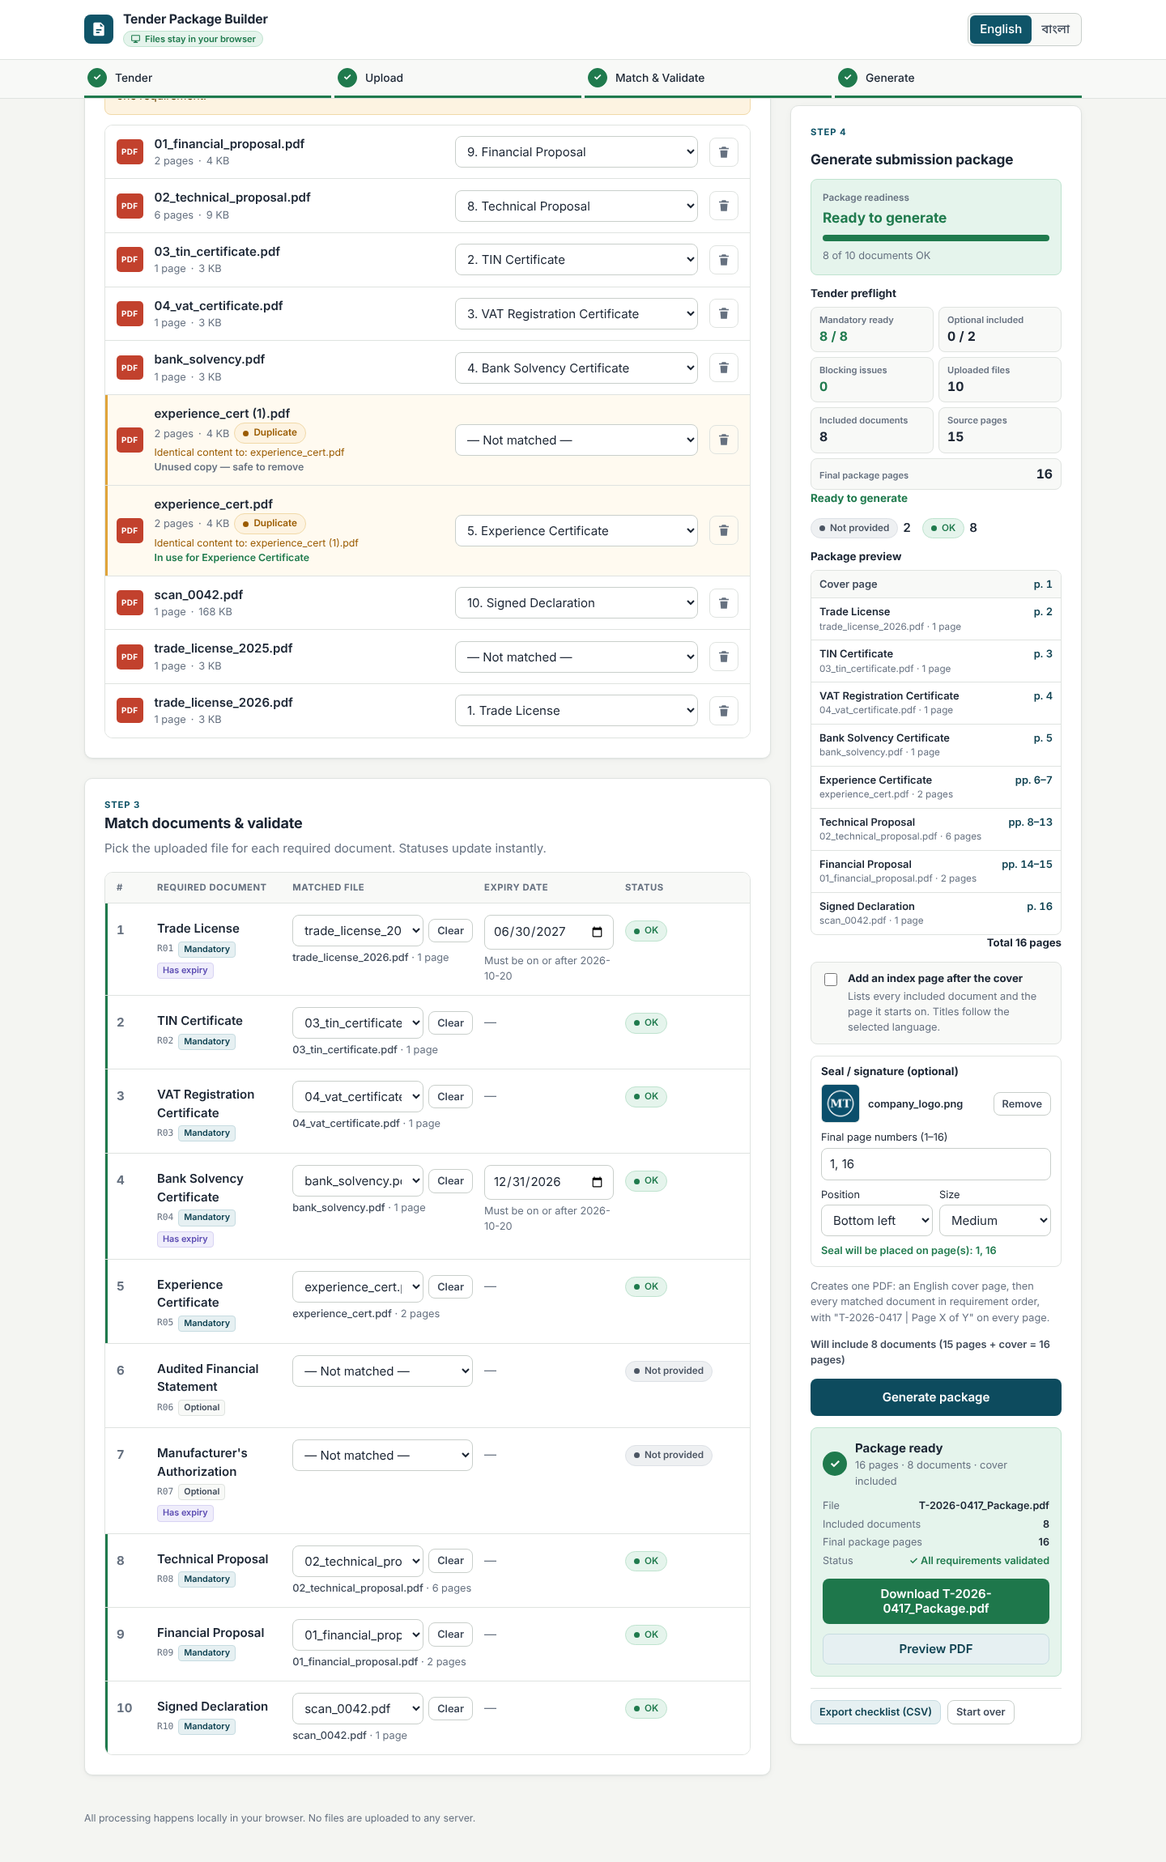
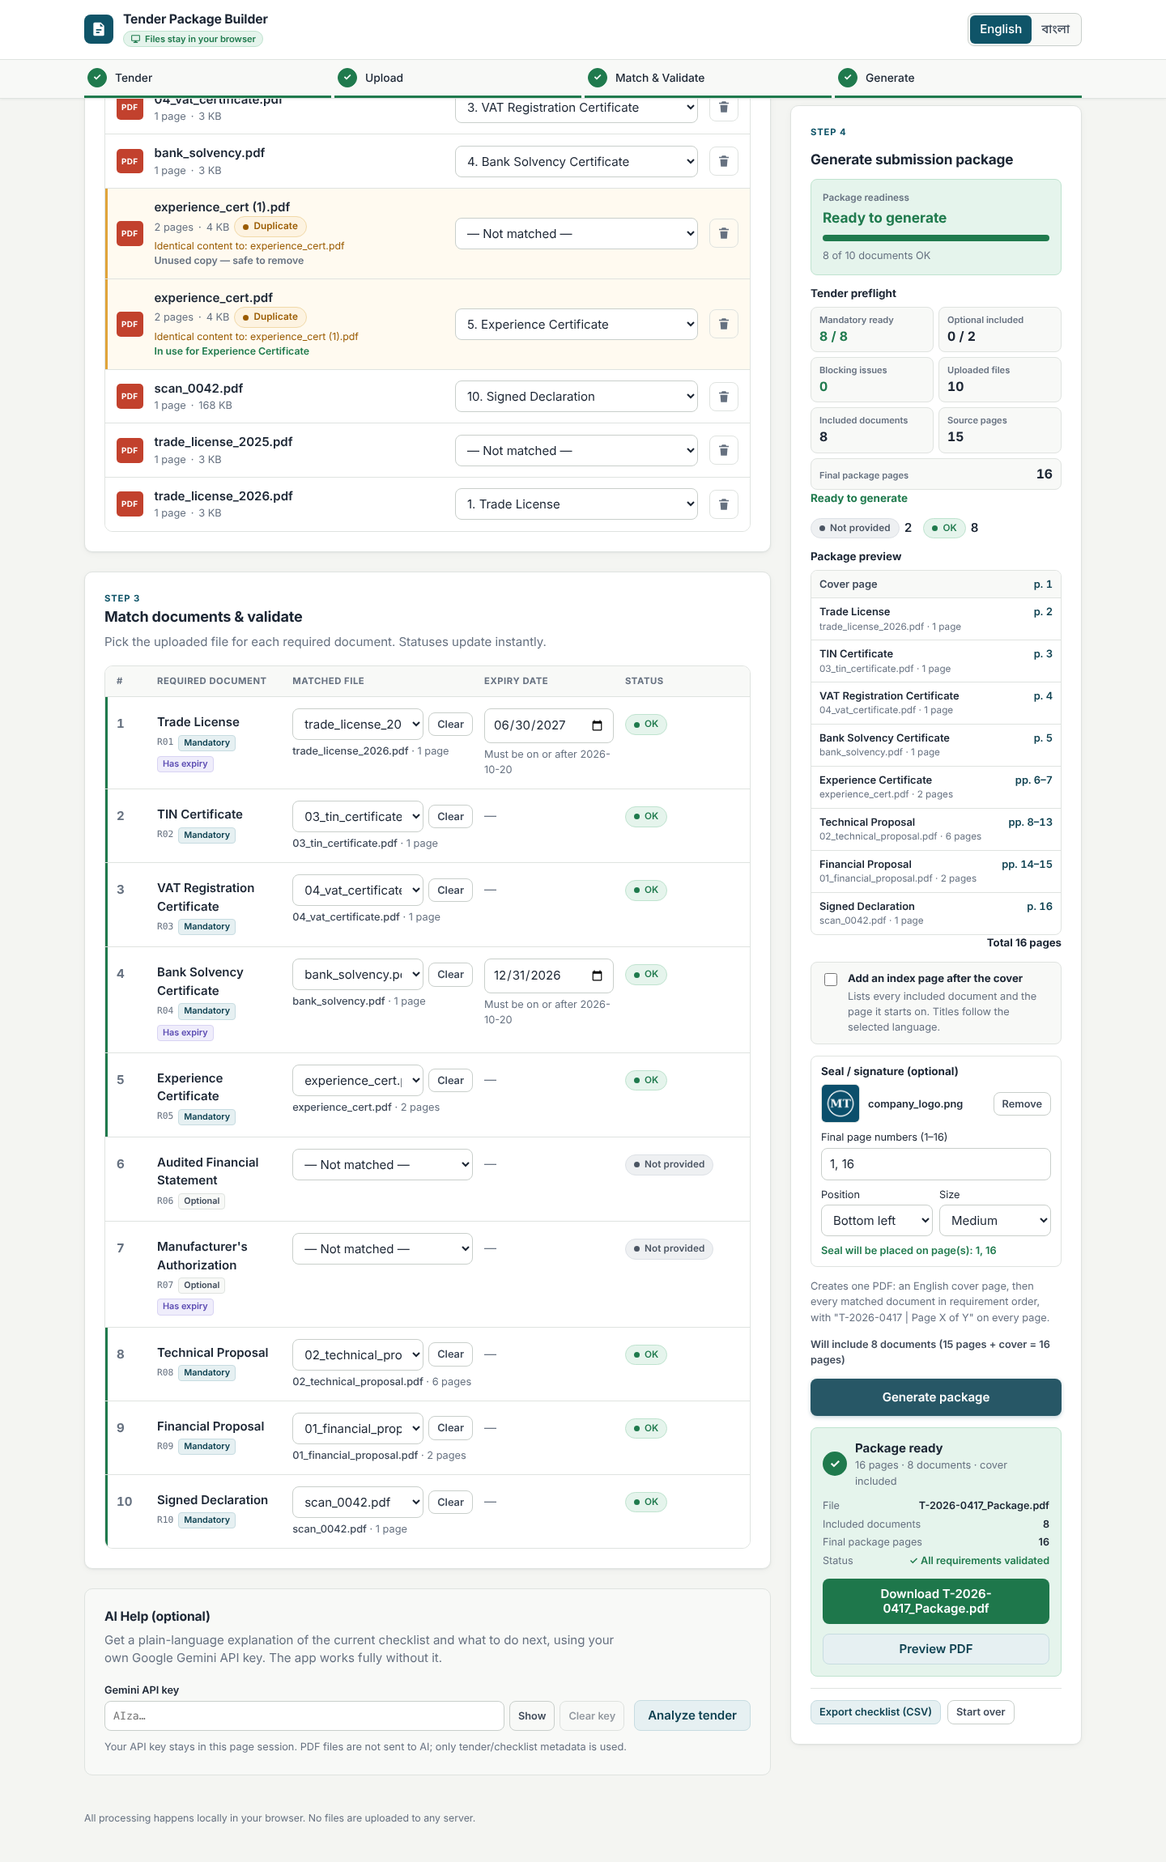
Finalize AI help and PDF safety
- Add optional Gemini AI Help panel in src/lib/ai.js, using a user key kept in memory only
- Send only tender/checklist metadata; PDFs are never sent and results never change validation
- Bilingual AI strings, privacy note and graceful error handling
- Light UI polish: header shadow, boxed blockers, clearer primary action
- Mocked Gemini unit tests; exclude the full-bleed fixture from the browser upload test
- README notes for AI Help and the sample logo

AI Prompt: Fix full-bleed PDF footer safety without covering original content, add an isolated optional Gemini AI Help panel using only a user-supplied in-memory API key and tender metadata, preserve all deterministic validation and package behavior, and apply minimal final judge-ready branding and UI polish.

diff --git a/src/lib/ai.js b/src/lib/ai.js
@@ -1,0 +1,131 @@
+// Optional AI Help: explains the current tender checklist with Google Gemini, using the user's own key.
+// Only checklist metadata is sent (never PDF bytes or PDF text). The key is passed in per call and
+// only ever placed in the request header; it is never stored, logged or included in errors.
+
+const ENDPOINT = 'https://generativelanguage.googleapis.com/v1beta/models'
+// The alias tracks Google's current Flash model; the pinned model is a fallback if the alias is unavailable.
+const MODELS = ['gemini-flash-latest', 'gemini-2.5-flash']
+const TIMEOUT_MS = 30000
+
+export class AiError extends Error {
+  constructor(key) {
+    super(key)
+    this.key = key
+  }
+}
+
+// Builds the metadata summary sent to the model from the app's deterministic state.
+export function buildTenderSummary({ tender, rows, files, fileById, dupGroups, ready, lang }) {
+  const title = (req) => (lang === 'bn' ? req.title_bn : req.title_en)
+  return {
+    tender: {
+      tender_id: tender.tender_id,
+      title: tender.title,
+      procuring_entity: tender.procuring_entity,
+      bidder: tender.bidder,
+      submission_deadline: tender.submission_deadline,
+    },
+    readiness: {
+      ready_to_generate: ready,
+      blocking_issues: rows.filter((r) => r.blocking).length,
+      generate_button_enabled: ready,
+    },
+    requirements: rows.map((r) => {
+      const file = r.fileId ? fileById[r.fileId] : null
+      return {
+        order: r.req.order,
+        id: r.req.id,
+        title: title(r.req),
+        title_en: r.req.title_en,
+        mandatory: r.req.mandatory,
+        needs_expiry_date: r.req.has_expiry,
+        status: r.status,
+        blocking: r.blocking,
+        matched_file: file ? file.name : null,
+        pages: file ? file.pages : null,
+        expiry_date: r.req.has_expiry && file ? r.expiry || null : null,
+      }
+    }),
+    uploaded_files: files.map((f) => ({
+      name: f.name,
+      pages: f.pages,
+      duplicate_of: dupGroups[f.hash].length > 1 ? dupGroups[f.hash].filter((g) => g.id !== f.id).map((g) => g.name) : [],
+      matched: rows.some((r) => r.fileId === f.id),
+    })),
+  }
+}
+
+export function buildPrompt(summary, lang) {
+  const language = lang === 'bn' ? 'Bangla (বাংলা)' : 'English'
+  return [
+    'You help an office worker prepare a tender submission package.',
+    'Below is the current checklist produced by the application. Its statuses are authoritative:',
+    'MISSING (mandatory, no file, blocking), EXPIRY_NEEDED (expiry date not entered, blocking),',
+    'EXPIRED (expiry date before the submission deadline, blocking), NOT_PROVIDED (optional, not blocking), OK.',
+    'An expiry date on or after the deadline is valid. Duplicate files have identical content and only one copy may be used.',
+    'Rules: only explain the supplied data; do not invent documents, dates or requirements; do not change or',
+    'second-guess the validation rules or statuses; do not ask for passwords, keys or other sensitive information.',
+    `Answer in ${language}, concisely, in plain text (no tables), using these short sections:`,
+    '1. Overall readiness  2. Blocking issues  3. Recommended next actions  4. Optional observations.',
+    '',
+    'Checklist data (JSON):',
+    JSON.stringify(summary, null, 2),
+  ].join('\n')
+}
+
+function errorFor(status, body) {
+  const reason = JSON.stringify(body || {})
+  if (status === 400 && /API_KEY_INVALID|API key not valid/i.test(reason)) return 'errAiKey'
+  if (status === 401 || status === 403) return 'errAiKey'
+  if (status === 429) return 'errAiQuota'
+  if (status === 404) return 'errAiUnavailable'
+  if (status >= 500) return 'errAiUnavailable'
+  return 'errAiRequest'
+}
+
+async function callModel(model, apiKey, prompt, signal, fetchImpl) {
+  let res
+  try {
+    res = await fetchImpl(`${ENDPOINT}/${model}:generateContent`, {
+      method: 'POST',
+      headers: { 'Content-Type': 'application/json', 'x-goog-api-key': apiKey },
+      body: JSON.stringify({ contents: [{ role: 'user', parts: [{ text: prompt }] }], generationConfig: { temperature: 0.2 } }),
+      signal,
+    })
+  } catch (err) {
+    throw new AiError(err?.name === 'AbortError' ? 'errAiTimeout' : 'errAiNetwork')
+  }
+  let body = null
+  try {
+    body = await res.json()
+  } catch {
+    if (res.ok) throw new AiError('errAiBadResponse')
+  }
+  if (!res.ok) throw new AiError(errorFor(res.status, body))
+  const parts = body?.candidates?.[0]?.content?.parts
+  const text = Array.isArray(parts) ? parts.map((p) => (typeof p?.text === 'string' ? p.text : '')).join('').trim() : ''
+  if (!text) throw new AiError('errAiBadResponse')
+  return text
+}
+
+// Returns the model's explanation as plain text, or throws AiError with a translation key.
+export async function analyzeTender({ apiKey, summary, lang, fetchImpl = globalThis.fetch, timeoutMs = TIMEOUT_MS }) {
+  const key = String(apiKey || '').trim()
+  if (!key) throw new AiError('errAiNoKey')
+  const controller = new AbortController()
+  const timer = setTimeout(() => controller.abort(), timeoutMs)
+  try {
+    const prompt = buildPrompt(summary, lang)
+    for (const [i, model] of MODELS.entries()) {
+      try {
+        return await callModel(model, key, prompt, controller.signal, fetchImpl)
+      } catch (err) {
+        // Only fall back to the next model when this one is not available.
+        if (!(err instanceof AiError) || err.key !== 'errAiUnavailable' || i === MODELS.length - 1) throw err
+      }
+    }
+    throw new AiError('errAiUnavailable')
+  } finally {
+    clearTimeout(timer)
+  }
+}

diff --git a/src/lib/i18n.js b/src/lib/i18n.js
@@ -175,6 +175,28 @@ const en = {
   sealWill: 'Seal will be placed on page(s): {list}',
   errSealPng: 'Only PNG images can be used as a seal or signature.',
   errSealPages: 'Enter page numbers between 1 and {max}, e.g. 1, 3-5.',
+  aiTitle: 'AI Help (optional)',
+  aiIntro: 'Get a plain-language explanation of the current checklist and what to do next, using your own Google Gemini API key. The app works fully without it.',
+  aiKeyLabel: 'Gemini API key',
+  aiShow: 'Show',
+  aiHide: 'Hide',
+  aiClearKey: 'Clear key',
+  aiAnalyze: 'Analyze tender',
+  aiLoading: 'Analyzing…',
+  aiClearResult: 'Clear result',
+  aiResultTitle: 'AI explanation',
+  aiNeedTender: 'Load the tender requirements first.',
+  aiPrivacy: 'Your API key stays in this page session. PDF files are not sent to AI; only tender/checklist metadata is used.',
+  aiDisclaimer: 'AI suggestions do not change validation results.',
+  aiFailNote: 'Everything else in the app keeps working.',
+  errAiNoKey: 'Enter your Gemini API key first.',
+  errAiKey: 'The API key was rejected. Check that it is a valid Gemini API key.',
+  errAiQuota: 'Gemini quota or rate limit reached. Try again later.',
+  errAiNetwork: 'Could not reach Gemini. Check your connection and try again.',
+  errAiTimeout: 'Gemini did not respond in time. Try again.',
+  errAiUnavailable: 'Gemini is unavailable right now. Try again later.',
+  errAiRequest: 'Gemini could not process the request.',
+  errAiBadResponse: 'Gemini returned an unexpected response.',
   footerNote: 'All processing happens locally in your browser. No files are uploaded to any server.',
 }
 
@@ -349,6 +371,28 @@ const bn = {
   sealWill: 'সিল বসবে পৃষ্ঠা: {list}',
   errSealPng: 'সিল বা স্বাক্ষর হিসেবে শুধু PNG ছবি ব্যবহার করা যাবে।',
   errSealPages: '১ থেকে {max}-এর মধ্যে পৃষ্ঠা নম্বর দিন, যেমন 1, 3-5।',
+  aiTitle: 'AI সহায়তা (ঐচ্ছিক)',
+  aiIntro: 'আপনার নিজের Google Gemini API key দিয়ে বর্তমান চেকলিস্টের সহজ ব্যাখ্যা ও পরবর্তী করণীয় জানুন। এটি ছাড়াও অ্যাপ পুরোপুরি কাজ করে।',
+  aiKeyLabel: 'Gemini API key',
+  aiShow: 'দেখান',
+  aiHide: 'লুকান',
+  aiClearKey: 'Key মুছুন',
+  aiAnalyze: 'টেন্ডার বিশ্লেষণ করুন',
+  aiLoading: 'বিশ্লেষণ হচ্ছে…',
+  aiClearResult: 'ফলাফল মুছুন',
+  aiResultTitle: 'AI ব্যাখ্যা',
+  aiNeedTender: 'আগে টেন্ডারের প্রয়োজনীয়তা লোড করুন।',
+  aiPrivacy: 'আপনার API key শুধু এই পেজ সেশনেই থাকে। PDF ফাইল AI-তে পাঠানো হয় না; শুধু tender/checklist-এর তথ্য ব্যবহার করা হয়।',
+  aiDisclaimer: 'AI পরামর্শ যাচাইকরণের ফল পরিবর্তন করে না।',
+  aiFailNote: 'অ্যাপের বাকি সব কিছু স্বাভাবিকভাবে কাজ করবে।',
+  errAiNoKey: 'আগে আপনার Gemini API key দিন।',
+  errAiKey: 'API key গ্রহণ করা হয়নি। এটি সঠিক Gemini API key কিনা যাচাই করুন।',
+  errAiQuota: 'Gemini-এর কোটা বা সীমা পূর্ণ হয়েছে। পরে আবার চেষ্টা করুন।',
+  errAiNetwork: 'Gemini-এর সাথে সংযোগ করা যায়নি। ইন্টারনেট সংযোগ দেখে আবার চেষ্টা করুন।',
+  errAiTimeout: 'Gemini সময়মতো সাড়া দেয়নি। আবার চেষ্টা করুন।',
+  errAiUnavailable: 'Gemini এখন পাওয়া যাচ্ছে না। পরে আবার চেষ্টা করুন।',
+  errAiRequest: 'Gemini অনুরোধটি প্রক্রিয়া করতে পারেনি।',
+  errAiBadResponse: 'Gemini অপ্রত্যাশিত উত্তর দিয়েছে।',
   footerNote: 'সব প্রক্রিয়া আপনার ব্রাউজারেই হয়। কোনো ফাইল কোনো সার্ভারে পাঠানো হয় না।',
 }
 

diff --git a/src/App.jsx b/src/App.jsx
@@ -6,6 +6,7 @@ import { inspectPdf, looksLikePdf, buildPackage, packageFileName, planPackage, p
 import { suggestMatches } from './lib/suggest.js'
 import { checklistCsv } from './lib/csv.js'
 import { saveProject, loadProject, clearProject, peekProject } from './lib/store.js'
+import { analyzeTender, buildTenderSummary } from './lib/ai.js'
 import './App.css'
 
 let nextId = 1
@@ -92,6 +93,12 @@ export default function App() {
   const [sealPos, setSealPos] = useState('bottom-right')
   const [sealSize, setSealSize] = useState('m')
   const [sealError, setSealError] = useState('')
+  // AI Help: the key lives only in this component's memory and is never persisted.
+  const [aiKey, setAiKey] = useState('')
+  const [aiShowKey, setAiShowKey] = useState(false)
+  const [aiLoading, setAiLoading] = useState(false)
+  const [aiResult, setAiResult] = useState('')
+  const [aiError, setAiError] = useState('')
 
   useEffect(() => {
     peekProject().then(setSaved)
@@ -316,6 +323,21 @@ export default function App() {
     }
     setSealError('')
     setSeal({ name: file.name, bytes, url: URL.createObjectURL(new Blob([bytes], { type: 'image/png' })) })
+  }
+
+  async function runAiHelp() {
+    if (aiLoading || !evaluation) return
+    setAiLoading(true)
+    setAiError('')
+    try {
+      const summary = buildTenderSummary({ tender: data.tender, rows: evaluation.rows, files, fileById, dupGroups, ready: evaluation.ready, lang })
+      setAiResult(await analyzeTender({ apiKey: aiKey, summary, lang }))
+    } catch (err) {
+      setAiResult('')
+      setAiError(err?.key || 'errAiRequest')
+    } finally {
+      setAiLoading(false)
+    }
   }
 
   async function saveWork() {
@@ -726,6 +748,56 @@ export default function App() {
                     </div>
                   )
                 })}
+              </div>
+            )}
+          </section>
+
+          <section className="card card-ai" aria-labelledby="h-ai">
+            <div className="card-head">
+              <h2 id="h-ai">{t('aiTitle')}</h2>
+              <p className="muted">{t('aiIntro')}</p>
+            </div>
+            <div className="ai-form">
+              <label className="ai-key">
+                <span className="small strong">{t('aiKeyLabel')}</span>
+                <span className="ai-key-row">
+                  <input
+                    type={aiShowKey ? 'text' : 'password'}
+                    value={aiKey}
+                    onChange={(e) => setAiKey(e.target.value)}
+                    autoComplete="off"
+                    spellCheck={false}
+                    data-lpignore="true"
+                    placeholder="AIza…"
+                  />
+                  <button type="button" className="btn btn-ghost btn-sm" onClick={() => setAiShowKey((v) => !v)} aria-pressed={aiShowKey}>
+                    {aiShowKey ? t('aiHide') : t('aiShow')}
+                  </button>
+                  <button type="button" className="btn btn-ghost btn-sm" onClick={() => { setAiKey(''); setAiShowKey(false) }} disabled={!aiKey}>
+                    {t('aiClearKey')}
+                  </button>
+                </span>
+              </label>
+              <button type="button" className="btn btn-secondary" onClick={runAiHelp} disabled={aiLoading || !data}>
+                {aiLoading ? t('aiLoading') : t('aiAnalyze')}
+              </button>
+            </div>
+            <p className="muted small ai-note">{t('aiPrivacy')}</p>
+            {!data && <p className="muted small">{t('aiNeedTender')}</p>}
+            {aiError && (
+              <div className="alert alert-error small" role="alert">
+                {t(aiError)} {t('aiFailNote')}
+              </div>
+            )}
+            {aiLoading && <p className="muted small" role="status">{t('aiLoading')}</p>}
+            {aiResult && (
+              <div className="ai-result" role="region" aria-label={t('aiResultTitle')}>
+                <div className="ai-result-head">
+                  <strong>{t('aiResultTitle')}</strong>
+                  <button type="button" className="btn btn-ghost btn-sm" onClick={() => setAiResult('')}>{t('aiClearResult')}</button>
+                </div>
+                <div className="ai-text">{aiResult.replace(/\*\*/g, '')}</div>
+                <p className="ai-disclaimer small">{t('aiDisclaimer')}</p>
               </div>
             )}
           </section>

diff --git a/src/App.css b/src/App.css
@@ -259,3 +259,31 @@ input[aria-invalid='true'] { border-color: var(--bad); background: #fffafa; }
 .seal-fields input[aria-invalid='true'] { border-color: var(--bad); }
 .seal-err { color: var(--bad); font-weight: 600; }
 .seal-ok { color: var(--ok); font-weight: 600; }
+
+/* ---------- AI help (secondary) ---------- */
+.card-ai { background: var(--surface-2); box-shadow: none; }
+.card-ai h2 { font-size: 1.05rem; }
+.ai-form { display: flex; flex-wrap: wrap; gap: 10px 12px; align-items: flex-end; }
+.ai-key { display: grid; gap: 4px; flex: 1 1 320px; min-width: 0; }
+.ai-key-row { display: flex; gap: 6px; min-width: 0; }
+.ai-key-row input { flex: 1; min-width: 0; padding: 8px 10px; border: 1px solid var(--line-strong); border-radius: 8px; background: var(--surface); font-family: ui-monospace, Menlo, monospace; font-size: 0.88rem; }
+.ai-note { margin: 10px 0 0; }
+.ai-result { margin-top: 12px; border: 1px solid #d8d3f3; background: var(--surface); border-radius: 8px; padding: 12px 14px; display: grid; gap: 8px; }
+.ai-result-head { display: flex; justify-content: space-between; align-items: center; gap: 8px; }
+.ai-text { white-space: pre-wrap; overflow-wrap: anywhere; font-size: 0.92rem; line-height: 1.55; }
+.ai-disclaimer { margin: 0; color: var(--info); font-weight: 600; }
+
+/* ---------- final polish ---------- */
+.topbar { box-shadow: 0 1px 3px rgba(20, 30, 40, 0.06); }
+.card-head h2 { color: var(--ink); }
+.req-row:not(.req-header):hover { background: #fbfcfb; }
+.dropzone:hover { border-color: #9fb0b8; }
+.btn-primary.btn-lg:not(:disabled) { box-shadow: 0 2px 6px rgba(15, 84, 104, 0.25); }
+.btn-primary.btn-lg:disabled { background: #8aa4ad; opacity: 1; }
+.blocking { border: 1px solid #f3c4bf; background: #fffafa; border-radius: 8px; padding: 10px 12px; }
+.badge { letter-spacing: 0.01em; }
+@media (max-width: 600px) {
+  .ai-key-row { flex-wrap: wrap; }
+  .ai-key-row input { flex-basis: 100%; }
+  .ai-form > .btn { width: 100%; }
+}

diff --git a/README.md b/README.md
@@ -60,7 +60,7 @@ Optional browser test: run `npm run dev`, then `node tests/e2e.cjs` (requires Pl
 - **Tender preflight and package preview.** These read the same status engine. The preflight shows mandatory documents ready, optional documents included, blocking issues, uploaded files, included documents, source pages and the predicted final page count, plus "Ready to generate" or "Action required". Each blocking issue is listed as "Document — Status"; clicking it scrolls to and focuses that requirement. The package preview lists the cover, the index (if on) and each document in final order with its file name, page count and page range.
 - **Package ready summary.** It shows the file name, the number of included documents, the total pages and the validation result, with Download and "Preview PDF" buttons. Preview opens the PDF from a local blob URL in a new tab.
 - **Trust indicator.** A "Files stay in your browser" / "ফাইল আপনার ব্রাউজারেই থাকে" badge in the header. This is accurate because there is no backend and nothing is uploaded.
-- Not implemented: AI Help.
+- **AI Help (optional, Gemini).** A secondary "AI Help (optional)" / "AI সহায়তা (ঐচ্ছিক)" panel explains the current checklist in plain English or Bangla: overall readiness, blocking issues, recommended next actions and optional observations. You enter your own Google Gemini API key. It stays only in the page's memory: it is not written to localStorage, sessionStorage or IndexedDB, not included in Save work, and is gone after a reload. It is sent only in the `x-goog-api-key` header of a direct HTTPS request from the browser to Google's Gemini API, and only when you click "Analyze tender". Only checklist metadata is sent: tender details, requirement titles, mandatory and optional flags, statuses, matched file names, page counts, expiry dates and duplicate flags. PDF files, their bytes and their text are never sent. The prompt tells Gemini that the app's statuses are authoritative. The response is shown as plain text with the note "AI suggestions do not change validation results.", and AI never changes matches, statuses, readiness or the generated PDF. A missing or invalid key, exceeded quota, network failure, timeout or unexpected response only produces a message inside this panel; the rest of the app works with or without AI. The code is isolated in `src/lib/ai.js`, and the tests mock Gemini, so no real key is used anywhere.
 
 ## Output
 
@@ -92,6 +92,8 @@ Optional browser test: run `npm run dev`, then `node tests/e2e.cjs` (requires Pl
 - The date picker's display format follows the browser's locale. Values are always stored and compared as `YYYY-MM-DD`.
 - Bangla text on the index page is embedded as an image (see above), so it can't be selected or searched as text.
 - Saved work lives in this browser's IndexedDB only. Clearing site data removes it, and it doesn't sync between devices.
+- AI Help needs internet access and the user's own Gemini API key; quality and availability depend on Google's service.
+- The only image in the official sample pack, `company_logo.png`, is the sample bidder's company logo. It is intentionally not used as app branding, and the app keeps its own neutral icon.
 
 ## AI tools used
 
